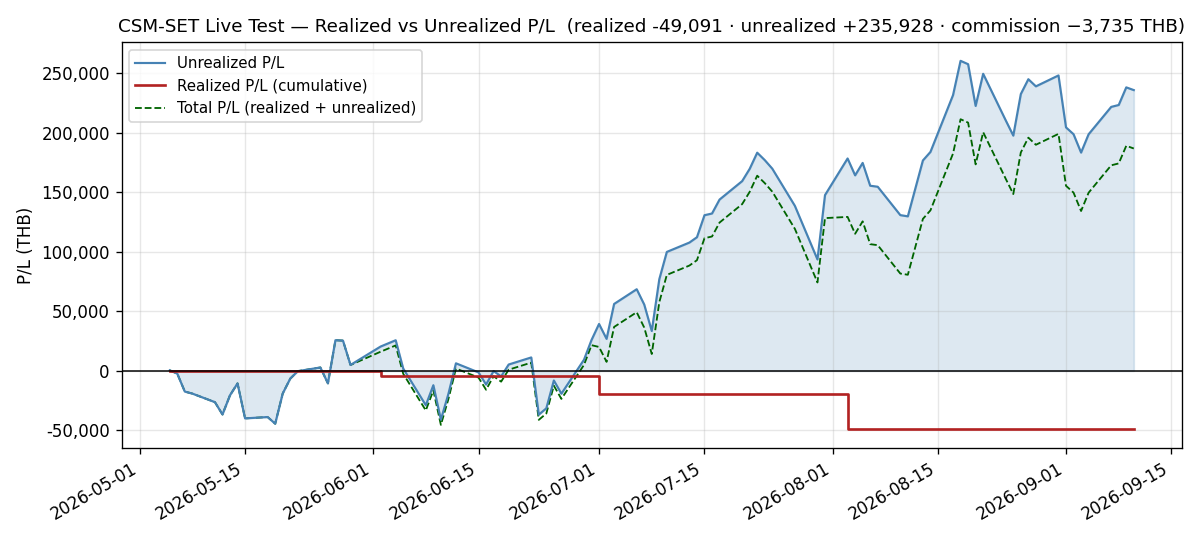
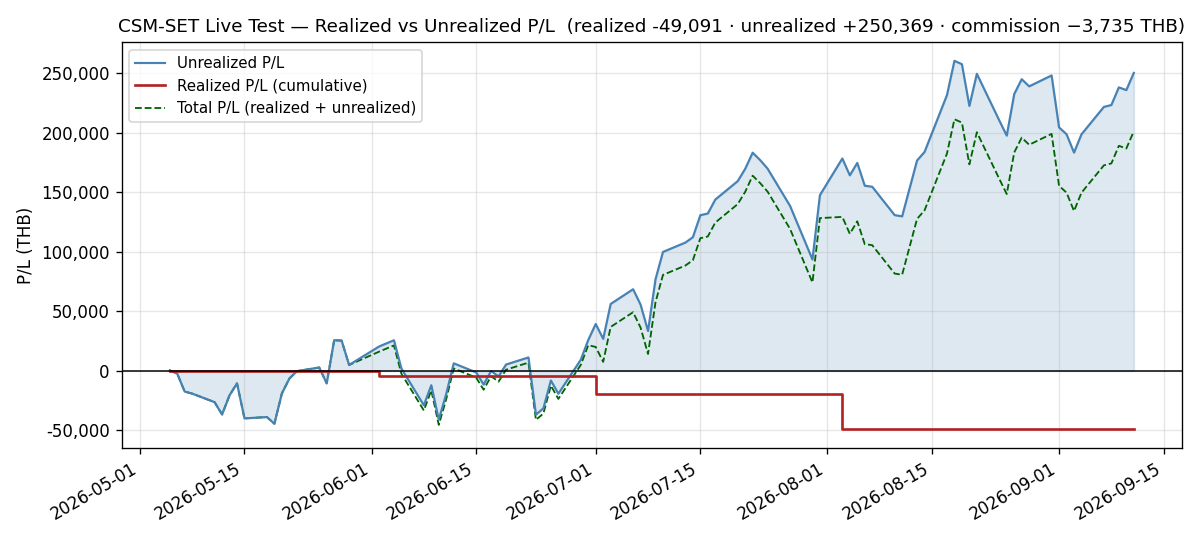
docs(live-test): add daily log for 2026-09-11 -- the track record restarts forward-only, and an audit finding is withdrawn
NAV closes at 1,319,667.70 THB, up +14,441.00 (+1.1064%) with no trades, on
breadth of 5 up / 4 down / 1 flat, against a SET that fell -0.6532%. KCE +12.82%
is the largest single-name session move of the live test and contributed
+19,500.00 on its own -- more than the whole session -- while IRPC gave back
-4.61% for a second consecutive heavy decline.

OPERATOR DECISION, 2026-09-11: THE TRACK RECORD RESTARTS FORWARD-ONLY.
Everything recorded to date -- this log, the eighty-nine before it, eighteen
weekly reports and four monthly reviews -- is pre-registration history: seen,
not scored. Scoring criteria are pending an operator pre-registration and this
log proposes, implies and anticipates none. The figures are unchanged in how
they are computed and changed only in what they may be used for. Every
performance figure is labelled accordingly and names the series it came from,
because equity_curve and daily_performance disagreed on 27 of 89 overlapping
dates before agreeing on the last three.

CORRECTION, AND IT IS THIS LOG'S OWN: an audit earlier today reported the
September rebalance as "overdue since 2026-09-01, not executed". That is WRONG
and is withdrawn. The rebalance was executed at the 2026-09-01 ATO as a
0-out / 0-in rotation; monthly/2026-08.md is the plan (committed 768af63,
2026-08-31) and daily/2026-09-01.md records the execution. The audit inferred a
missed rotation from an unchanged entry_date, an absent monthly/2026-09.md and
[…]

diff --git a/docs/live-test/daily/2026-09-11.md b/docs/live-test/daily/2026-09-11.md
@@ -1,0 +1,162 @@
+# Daily Log — 2026-09-11 (Friday)
+
+**As of:** 2026-09-11, Asia/Bangkok
+**Phase:** C — Extended Observation
+**Day:** 90 / 73 trading days remaining in 2026
+**Status:** 🔴 **THE TRACK RECORD RESTARTS FORWARD-ONLY — operator decision, 2026-09-11.** Everything in this document and in the eighty-nine that precede it is **pre-registration history: seen, not scored.** Scoring criteria are **pending an operator pre-registration** and none is proposed, implied or anticipated anywhere below. **NAV closes at 1,319,667.70 THB, up +14,441.00 (+1.1064%)** with no trades, on breadth of **5 up, 4 down, 1 flat**, against a SET that fell **−0.6532%** — a margin of **+1.7596pp**, the widest of the holding period. **KCE +12.82% is the largest single-name session move of the live test**, contributing **+19,500.00** on its own. 🟢 **The prior log's one-tick call on SMT fired exactly as written:** it said 5.85 would put SMT at +0.69% and make the split 8/2. SMT closed **5.85**, at **+0.69%**, and the split is **8/2**. 🔴 **AUTO sits 0.0194pp above the 5% sector FLOOR** — 256.61 THB, the narrowest sector reading at either end in ninety sessions, and the drift question is now live at the *bottom* of the envelope while the cap has gone quiet. ⚠ **And a correction this log owes: an audit earlier today reported the September rebalance as overdue and unexecuted. That was wrong** — it was executed on 2026-09-01 as a 0-out / 0-in rotation, and `monthly/2026-08.md` is the record (Risk Note 4).
+
+---
+
+## Execution Summary
+
+**No trades today.** The September rebalance was executed at the **2026-09-01 ATO** as a **0-out / 0-in** rotation — the live test's first no-trade rotation — so `configs/live_portfolio.yaml` is unchanged and remains valid. Realized P/L for the session is **0.00 THB** and no commission was paid. The next rebalance evaluation is **2026-09-30**.
+
+---
+
+## Portfolio Snapshot
+
+> 🔴 **Every figure in this section is PRE-REGISTRATION HISTORY — NOT SCORED.** It is produced from the **reconstructed series** (`csm.adapters.hooks._reconstruct_live_equity`, which reprices `configs/live_portfolio.yaml` against `data/processed/prices_latest.parquet`) and reconciled against **`db_gateway.daily_performance`**. Where a number below is quoted from a stored series, the series is named.
+
+`Avg Cost` is the commission-inclusive per-share basis carried from `configs/live_portfolio.yaml` (4-decimal precision); `Cost Basis = shares × Avg Cost`, and `U.PL % = MV / Cost Basis − 1`. Per-symbol values reproduce the broker statement exactly.
+
+| # | Symbol | Shares | Avg Cost | Last Price | Market Value (THB) | Cost Basis (THB) | U.PL % |
+|---|--------|-------:|---------:|-----------:|--------------------:|-----------------:|-------:|
+| 1 | KCE | 2,600 | 39.0655 | 66.00 | 171,600.00 | 101,570.30 | +68.95% |
+| 2 | GUNKUL | 30,800 | 2.9246 | 5.10 | 157,080.00 | 90,077.68 | +74.38% |
+| 3 | INSET | 42,000 | 3.0848 | 4.40 | 184,800.00 | 129,561.60 | +42.63% |
+| 4 | HANA | 3,000 | 35.8070 | 50.00 | 150,000.00 | 107,421.00 | +39.64% |
+| 5 | IRPC | 56,600 | 2.3037 | 2.90 | 164,140.00 | 130,389.42 | +25.88% |
+| 6 | EASTW | 24,000 | 4.2672 | 5.05 | 121,200.00 | 102,412.80 | +18.34% |
+| 7 | EPG | 17,300 | 5.9099 | 6.00 | 103,800.00 | 102,241.27 | +1.52% |
+| 8 | SMT | 20,400 | 5.8097 | 5.85 | 119,340.00 | 118,517.88 | +0.69% |
+| 9 | FORTH | 5,300 | 16.1270 | 14.80 | 78,440.00 | 85,473.10 | −8.23% |
+| 10 | MGC | 9,200 | 10.7180 | 7.20 | 66,240.00 | 98,605.60 | −32.82% |
+
+### Portfolio summary
+
+| Metric | Value |
+|--------|-------|
+| Total Cost Basis | 1,066,270.65 THB |
+| Total Market Value | 1,316,640.00 THB |
+| Unrealized P/L | +250,369.35 THB (+23.48%) |
+| Realized P/L (today) | **0.00 THB** |
+| Realized P/L (cumulative, since inception) | **−49,091.38 THB** |
+| Commission paid (cumulative) | **−3,735.16 THB** |
+
+### Account summary
+
+| Metric | Value |
+|--------|-------|
+| Remaining Cash | 3,027.70 THB |
+| Total NAV | 1,319,667.70 THB |
+| Total Return on NAV | +17.83% |
+
+> **Cost-basis note:** Total Cost Basis is unchanged at **1,066,270.65 THB** and the reconciliation delta against Σ per-symbol (`shares × avg_cost`, 4-dp) is **0.00 THB** for a twenty-eighth consecutive session.
+>
+> 🟢 **Above/below cost: 8 up / 2 down** — and the change was **predicted in the prior log to the tick.** That log wrote: *"One upward tick (5.85) puts it at +0.69% and makes the split 8/2."* SMT closed at **5.85**, its U.PL is **+0.69%**, and the split is **8/2**. 🔑 **It is worth being precise about what this does and does not show.** The same log issued the same kind of call on EPG on 2026-09-08 and **that one did not fire**. Two calls, one hit — this is a distance being stated so it can be checked either way, not a forecasting record, and it must not be read as one.
+>
+> 🟢 **Dispersion NARROWED for a second consecutive session, 108.29pp → 107.20pp** (GUNKUL +74.38% to MGC −32.82%), a **−1.09pp** step. **But the mechanism differs from yesterday's and the difference matters.** Yesterday it narrowed because the laggard MGC rose while the book fell. Today MGC **fell −3.36%** and the spread narrowed anyway, because the leader GUNKUL fell further in percentage-of-cost terms. **A spread that closes from the top is not the same event as one that closes from the bottom**, and only the second is laggard recovery.
+>
+> **Total P/L check:** realized + unrealized = −49,091.38 + 250,369.35 = **+201,277.97 THB**, up from +186,836.97 by exactly the +14,441.00 session move. It stands **10,158.00 below** the live-test maximum of **+211,435.97 set 2026-08-18** — a gap that is exactly the NAV drawdown from peak, as it must be while realized P/L is constant.
+
+---
+
+## Day-over-Day Change (vs Thursday September 10)
+
+| Symbol | Sep 10 Close | Sep 11 Close | Change | Change % | MV Contribution (THB) |
+|--------|-------------:|-------------:|-------:|---------:|----------------------:|
+| KCE | 58.50 | 66.00 | +7.50 | +12.82% | +19,500.00 |
+| HANA | 48.00 | 50.00 | +2.00 | +4.17% | +6,000.00 |
+| EASTW | 5.00 | 5.05 | +0.05 | +1.00% | +1,200.00 |
+| SMT | 5.80 | 5.85 | +0.05 | +0.86% | +1,020.00 |
+| EPG | 5.95 | 6.00 | +0.05 | +0.84% | +865.00 |
+| FORTH | 14.80 | 14.80 | 0.00 | 0.00% | 0.00 |
+| INSET | 4.42 | 4.40 | -0.02 | -0.45% | -840.00 |
+| MGC | 7.45 | 7.20 | -0.25 | -3.36% | -2,300.00 |
+| GUNKUL | 5.20 | 5.10 | -0.10 | -1.92% | -3,080.00 |
+| IRPC | 3.04 | 2.90 | -0.14 | -4.61% | -7,924.00 |
+| **Total** | | | | **+1.11%** | **+14,441.00** |
+
+**Breadth: 5 up, 4 down, 1 flat.**
+
+> The `Change %` on the Total row is the **market-value** change (+14,441.00 / 1,302,199.00 = +1.1090%), not the NAV change (+14,441.00 / 1,305,226.70 = +1.1064%). The two differ only because cash sits in the NAV denominator and not in the market-value one; with cash constant at 3,027.70 the absolute change is identical and only the denominator moves.
+
+**The session was carried by one name and opposed by another, and the two nearly cancelled in count while not cancelling at all in size.** KCE's **+12.82%** is the largest single-name move of the live test and alone contributed **+19,500.00** — more than the whole session's **+14,441.00**. Against it, IRPC gave back **−4.61%** and **−7,924.00**, its second consecutive decline of that order after yesterday's −5.00%. **The book rose while five of its ten names did not, and it rose against a falling index**: the SET fell **−0.6532%** and the book gained **+1.1064%**, a **+1.7596pp** margin that is the widest of the holding period. 🔑 **A single-name margin is not a signal about the strategy.** One name moving 12.82% on a ten-name book moves NAV by roughly 1.5% whatever the ranking rule was; the ranking's contribution to that outcome is not separable from a session's tape, and nothing in this log attempts to separate it.
+
+---
+
+## Market Context
+
+| Indicator | Value | Source |
+|-----------|-------|--------|
+| SET Index | 1,604.52 | tvkit (TradingView) |
+| SET Open / High / Low | 1,608.17 / 1,610.43 / 1,600.19 | tvkit |
+| SET 200-day SMA | 1,463.1345 | tvkit (TradingView) |
+| Regime Estimate | BULL | SET +9.66% above SMA200 |
+
+> ⚠ **This is context, NOT a benchmark comparison, and it must not be read as one.** `SET:SET` is a **price index**; the strategy series above is priced on **dividend-adjusted** bars (since `e04a292`, 2026-08-09). The two are not on the same basis, the difference is one-sided in the strategy's favour, and it is not small — measured 2026-09-11 over 2024-03-19 → 2026-09-10, the dividend adjustment is worth **+12.09 percentage points** on this universe, roughly **+4.8%/yr**. The engine's own benchmark loader is also given **no date bounds**, so it returns **600 index points from 2024-03-19** against a strategy series of **29 sessions from the 2026-08-03 `entry_date`**. **No alpha, excess return or outperformance figure is computed anywhere in this log**, and the `+1.7596pp` margin quoted above is a same-session arithmetic difference, not a performance claim.
+
+---
+
+## Regime State
+
+- **Detected regime:** BULL — SET (1,604.52) is above SMA200 (1,463.1345) by +9.6632%
+- **SMA200 position:** 1,463.1345 — SET closing at 1,604.52
+- **3-month return:** +1.29% (window-sensitive — see Notes)
+- **No regime-driven action.** The regime filter is evaluated at the month-end rebalance, not intra-month. The next evaluation is **2026-09-30**.
+
+**The five-session SET path reads 1,618.82 → 1,621.89 → 1,617.89 → 1,615.07 → 1,604.52**, and the index has now fallen on **three consecutive sessions** for a cumulative **−1.0710%** from Tuesday's high. Today's **−10.55 point** decline is the largest of the four and the range (**1,600.19–1,610.43**, 10.24 points) the widest, so the fall is broadening rather than drifting. **Cushion compressed 10.5050% → 9.6632%, a −0.8418pp step and the first reading below 10% since the cushion series began being tracked weekly.** SMA200 itself rose **1,461.5359 → 1,463.1345**, so the compression is the index falling *and* the average rising — both terms moving the same way, which is the faster of the two ways this converges. **At 141.39 points of headroom a BULL→BEAR crossing is not a September concern**, and nothing in the system acts on cushion compression short of that crossing.
+
+---
+
+## Sector Concentration
+
+Groupings are the SET-official classification re-based at the 2026-08-03 rebalance and are unchanged today; percentages are directly comparable to the prior session for every sleeve.
+
+| Sector | Market Value (THB) | % of NAV | Limit | Status |
+|--------|--------------------:|---------:|-------|--------|
+| Energy & Utilities (ENERG) | 442,420 | 33.5251% | 35% | OK — 19,463.70 THB of headroom |
+| Electronic Components (ETRON) | 440,940 | 33.4130% | 35% | OK — 20,943.70 THB of headroom |
+| ICT | 263,240 | 19.9474% | 35% | OK |
+| Construction Materials (CONMAT) | 103,800 | 7.8656% | 35% | OK |
+| Automotive (AUTO) | 66,240 | 5.0194% | 5% floor | 🔴 **256.61 THB above the FLOOR** |
+
+🔴 **The binding constraint has moved from the top of the envelope to the bottom, and it is tighter there than the cap ever was.** AUTO — a one-name sleeve, MGC — closed at **5.0194% of NAV**, **256.61 THB** above the 5% floor of **65,983.39**. **MGC would put the sleeve under the floor below 7.1721 per share; it closed at 7.20, which is 0.39% away.** For comparison, the tightest the 35% cap ever got was ENERG's **0.65pp** on 2026-08-05 and its two actual breaches; **0.0194pp is thirty-three times tighter than that**, and it is a *floor*, where the corrective action is to **buy** rather than trim. 🔑 **The 2026-08-31 monthly review predicted this in terms and named the reason it would not be caught:** it recorded AUTO at 5.3418%, *"0.34 pp above the 5% floor after closing 64% of that distance in ten sessions"*, and observed that **"a measure that moves 0.8 pp in a session cannot be governed by a check that runs once a month."** Eight sessions later the remaining 0.34pp is 0.0194pp. **Nothing acted, because the 5–15% position bound and the sector envelope are applied at rebalance construction only** — there is no code path that trims or tops up on drift.
+
+🟢 **The 35% cap is the quietest it has been in three weeks.** ENERG fell **34.6472% → 33.5251%** on IRPC's second consecutive heavy session, taking headroom from 4,605.35 to **19,463.70**. **But the ENERG–ETRON gap collapsed from 2.8964pp to 0.1121pp** — KCE's +12.82% lifted ETRON to **33.4130%**, within **1,480.00 THB** of ENERG. ⚠ **Two sleeves within 0.12pp of each other and both within 1.6pp of the cap means the next cap event is no longer predictable from watching ENERG alone**, which is what every prior log has done.
+
+---
+
+## Risk Notes
+
+1. 🔴 **THE TRACK RECORD RESTARTS FORWARD-ONLY (operator decision, 2026-09-11).** Everything recorded to date — this log, the eighty-nine daily logs before it, the eighteen weekly reports, the four monthly reviews — is **pre-registration history: seen, not scored.** **Scoring criteria are pending an operator pre-registration.** This log proposes none, implies none, and anticipates none; the figures it reports are unchanged in how they are *computed* and changed only in what they may be *used for*. 🔑 **The reason this is the right response to the last two days' findings is that the alternative is worse:** criteria chosen after ninety sessions of visible results are not a test, and the audit established that the inputs behind those results moved three times in one week of August.
+2. 🔴 **AUTO is 256.61 THB above the 5% sector floor — 0.0194pp, the narrowest sector reading at either end in ninety sessions.** MGC breaches below **7.1721/share** against a **7.20** close. **No action is recommended and none has been sized.** The floor, like the 35% cap and the 5–15% position bound, binds at rebalance **construction** only; there is no executable path that acts on drift. **This is the third distinct instance of the same unresolved question** — INSET above the position ceiling for four months, ENERG through the sector cap twice, and now AUTO at the floor — and it is the first at the bottom of an envelope, where the remedy is a purchase. [[TK-0279]]
+3. ⚠ **The ENERG–ETRON gap is 0.1121pp and both sleeves are within 1.6pp of the 35% cap.** Every prior log has monitored cap risk by watching ENERG. That heuristic expired today. **ETRON at 33.4130% would breach on a further +18.78% in KCE alone** (66.00 → 78.3927, solved with NAV moving too), and KCE moved +12.82% this session.
+4. 🔴 **CORRECTION — an audit earlier today reported the September rebalance as "overdue since 2026-09-01, not executed". That finding was WRONG and is withdrawn.** The rebalance **was** executed, at the 2026-09-01 ATO, as a **0-out / 0-in** rotation; the plan is `docs/live-test/monthly/2026-08.md`, written 2026-08-31 and committed `768af63`, and the execution is recorded in `daily/2026-09-01.md`. 🔑 **The audit reached the wrong answer by exactly the route the 2026-09-01 log had already warned about.** That log states, in terms: *"A rebalance that changes nothing and a rebalance that was missed are indistinguishable from the file alone — the distinguishing evidence is `monthly/2026-08.md`, and it exists."* The audit inferred a missed rotation from an unchanged `entry_date`, an absent `monthly/2026-09.md` and an absent 2026-08-31 universe snapshot — **the precise false positive that sentence predicts**, in a document one directory from the file that refutes it. **Recorded forward; `2026-09-01.md` is not edited.** ⚠ **A second claim in the same audit is also corrected: it said no rebalance had yet run on the dividend-adjusted basis.** The 2026-09-01 rotation was evaluated on **2026-08-31**, twenty-two days after the basis fix (`e04a292`, 2026-08-09), so it **was** the first — it simply produced no trades.
+5. 🟢 **`equity_curve` and `daily_performance` agree today, to the satang**, both reading **1,319,667.70**. They have now agreed on **three consecutive sessions** (09-09, 09-10, 09-11) after disagreeing on **27 of the 89 overlapping dates** before that — one isolated 2026-05-05 and a contiguous block 2026-08-03 → 2026-09-08. 🔑 **The block's closure is not a fix and must not be read as one.** The mechanism is that `hooks.py` rewrites the whole `[entry_date, today]` window on every refresh, so every vendor back-adjustment silently restates banked history behind the append-only gateway rows; rows written *after* the most recent restatement agree until the next one. **The 2026-09-08 gap was −2,263.999434, which is the 2,264.00 IRPC ex-dividend effect characterised in `daily/2026-09-09.md`.** The next restatement will re-open the divergence. [[TK-0297]]
+6. 🟢 **The uncredited dividend total HELD at 8,927.00 THB** — KCE 1,560.00, INSET 2,100.00, MGC 2,208.00, FORTH 795.00, IRPC 2,264.00. **No held name went ex-dividend today**: all ten prior closes in today's panel match yesterday's log exactly, so zero of 211 symbols carry a restated bar, for a second consecutive session. It stands at **4.44%** of the +201,277.97 total P/L, **down** from 4.78%, and the whole move is denominator — the numerator is frozen. **NAV is understated by 8,927.00 THB against a broker statement**, which is **0.68% of NAV**. **There is still no dividend-accrual or dividend-receivable path anywhere in the live-test book.** Recorded, deliberately not corrected. Carries to **2026-09-30**.
+7. 🟢 **The market-data engine's read API was repaired today, and csm-set was not affected by either the fault or the fix.** `quant-marketdata-engine` had been returning **503 on every `/ohlcv` and `/ohlcv/adjusted` request since the 2026-09-10 reboot** — 33 hours — because it started 0.324 s before Postgres, its connection pool never opened, and nothing retried; Docker reported the container `healthy` throughout because the healthcheck asserted only an HTTP status. Fixed, merged and deployed today (`5d3bf69`); `/health` now reads `db: true` and both endpoints serve rows. 🔑 **csm-set consumed nothing from it in either state.** The container runs `CSM_OHLCV_SOURCE=parquet` with no engine URL set at all, so its price panel came from tvkit as it has every session — **the engine outage could not have touched a number in this log, and the repair does not improve one.** The decision about whether csm-set should read the engine at all is unchanged and still open. [[TK-0296]]
+8. 🟢 **Circuit-breaker buffer 19.37% of NAV, +0.89pp on the session.** The 5% breaker trips at **1,064,000 THB** (1,120,000 × 0.95). NAV sits **+255,667.70 THB above it**, up from +241,226.70. **Today's NAV is 0.76% off peak**: 1,319,667.70 against the 2026-08-18 peak of **1,329,825.70** is **−10,158.00, or −0.7639%** — the closest the book has come to its high since 2026-08-21. The separate `circuit_breaker.trigger_threshold` is **−10% on a rolling 60-day window**; −0.76% is comfortably clear, and the breaker has never come within 2.89pp of tripping in ninety sessions.
+9. **INSET is inside the 5–15% position band at 14.0035%**, 13,150.16 THB under the 197,950.16 ceiling, having been outside it on nineteen of twenty sessions through the August rebalance. **It moved back inside on price, not on action** — no trim was ever sized or placed. The band's status is therefore unchanged as a *question* even though the instance has gone quiet, which is why Risk Note 2 matters more than this one today.
+10. **INFRA (carried) — the container publishes `:8100` on all interfaces while private-mode auth is disabled.** `CSM_API_KEY` is absent from the container environment entirely and `CSM_PUBLIC_MODE=false`. **Risk tier: low-moderate and LAN-scoped.** Two low-risk options, operator's call: bind to `127.0.0.1:8100:8000`, or set `CSM_API_KEY`. **A recreate is required for the first and has not occurred** — `Created` is unchanged since 2026-09-01. **Twenty-second consecutive log.**
+11. ⚠ **DOC — the `csm-set-daily-log` skill's `daily_return` guidance remains stale.** Its Step 3 still calls the field *"an open defect, not yet fixed in code"*; **it was fixed 2026-09-02**. Today `daily_return` reads **+1.1064%** and agrees with this log's headline exactly, because no bar was restated. The instruction the skill gives — compute the change independently — remains correct and is followed here. **Recorded, not corrected**: the skill belongs to a task that owns it. **Fourth log to carry this.**
+12. **Four open decisions carry to the 2026-09-30 evaluation**, unchanged in number: the drift question at both ends of the position and sector bands (Risk Notes 2, 3, 9), fix-notional-not-shares on the entrants, restate-vs-cutover for price history (Risk Note 5), and dividend accrual (Risk Note 6). 🔑 **The operator's forward-only decision (Risk Note 1) does not resolve any of them and was not intended to** — it changes what the record may be used for, not what the book does. **All four still bind on the September 30 rebalance.**
+
+---
+
+## Notes
+
+- **Scheduled refresh completed via APScheduler with zero failures.** `"Scheduled daily_refresh completed"` at **2026-09-11T11:04:01Z** (18:04 BKK) — the 18:00 cron firing, not a manual `POST /api/v1/scheduler/run/daily_refresh`. Receipt: `symbols_fetched=211, failures=0, duration_seconds=239.31, held_symbols_fetched=10, held_symbols_failed=0, retry_attempts_used=1, index_fetched=true`, corroborated by `results/.tmp/last_refresh.json`. ⚠ **`retry_attempts_used` was 1, against 0 on each of the prior two sessions**, and the run took **239.31s against 122.66s yesterday** — a 95% increase. One retry is well inside tolerance and no symbol failed, but the pair is recorded so a trend has a baseline to be measured against.
+- **The price panel and the prior log agree on all ten names.** Every held symbol's 2026-09-10 close in today's panel matches the figure `daily/2026-09-10.md` published. **No held name was restated**, so the uncredited-dividend ledger is unchanged (Risk Note 6).
+- **The panel's row count fell 941 → 940.** The oldest date rolled off the 600-bar-per-symbol window; column count is unchanged at **211** (210 symbols + `SET:SET`). ⚠ **`universe_latest` carries 210 rows and the panel 211 columns** — the difference is the index, which is a price column and not a universe member. The two counts are not interchangeable and a check that compares them directly will report a phantom defect.
+- **Row-integrity checks pass.** `db_csm_set.equity_curve` holds exactly one row per trading day at `00:00:00+00`; today's row is present and equals `daily_performance.total_value`.
+- **`configs/live_portfolio.yaml` is unchanged** since the 2026-08-03 rewrite — twenty-eight sessions — and remained valid across the 2026-09-01 rebalance because that rotation traded nothing.
+- **The P/L identity holds and its residual is unchanged.** `realized_cum + unrealized − (NAV − starting_nav)` = −49,091.38 + 250,369.35 − 199,667.70 = **1,610.27 THB**, the same constant as every session since the rebasing.
+- **Every figure was verified rather than asserted.** Σ position market value equals Total Market Value exactly (1,316,640.00); **Total NAV (1,319,667.70) equals `db_gateway.daily_performance.total_value` to the satang**; Σ (shares × price change) equals the market-value change (+14,441.00) exactly; the sector table sums to Total Market Value exactly; Σ per-symbol cost basis matches Total Cost Basis with a **0.00** delta; the position count is 10. All money arithmetic used `Decimal` with explicit half-up rounding (AUTO **5.0194%** at **256.61 THB** above a 65,983.39 floor; the ENERG−ETRON gap **0.1121pp**; MGC's floor-breach price **7.1721**).
+- **Realized P/L and commission ledger — both unchanged, no trades today.** Realized cumulative **−49,091.38 THB** (2026-06-02 −4,351.87 · 2026-07-01 −14,964.06 · 2026-08-03 −29,775.45). Commission cumulative **−3,735.16 THB**. **September has added nothing to either line and by construction will not**, its rotation having traded nothing.
+- **Capital events to date, unchanged.** `starting_nav` 1,120,000 after 1,000,000 → 1,100,000 (2026-06-04, +100,000) → 1,120,000 (2026-08-03, +20,000). **Both injections are inside the pre-registration window** and neither is performance.
+- **Fresh-high/low claims are scoped to their window.** KCE's +12.82% is the largest single-name session move **of this live test**, not of KCE's history. The +1.7596pp margin over the SET is the widest **of the 2026-08-03 holding period**, not of the live test.
+- **3-month return figure is window-sensitive.** +1.29% is measured over the trailing 66 bars from today's close and moves materially with the start bar.
+- **Follow-ups for the next session (Monday 2026-09-14 18:00 +07).** (a) AUTO against the 5% floor — MGC below 7.1721 breaches it; (b) the ENERG−ETRON gap, now 0.1121pp, and whether cap monitoring needs to watch both; (c) whether `equity_curve` and `daily_performance` stay in agreement for a fourth session, or a restatement re-opens the block; (d) whether the refresh's `retry_attempts_used` and duration return to their prior levels; (e) the engine's first scheduled ingest after today's fix, 2026-09-14 12:15 UTC, and whether it adds any duplicate symbol-day.
+- **Calendar.** 2026-09-11 was a trading session; the banked SET holiday calendar (`results/.tmp/set_holidays.json`, `captured_at 2026-09-11T12:32:39Z`) carries no September closure, and the next 2026 closure is **2026-10-13**. SET trading hours were fetched from `set.or.th` at **2026-09-11T14:03:15Z** and are not stated from memory anywhere in this log.
+- Data fetched via tvkit (TradingView, free tier) — all 10 held-symbol prices from the 18:00 BKK scheduled-cron refresh; SET Index context anchored explicitly to the 2026-09-11 bar. ⚠ **The vendor back-adjusts a symbol's entire history on an ex-dividend date**, so any prior-session price quoted here is the vendor's *current* view of that session and not necessarily what was published at the time.

diff --git a/docs/live-test/graphs/README.md b/docs/live-test/graphs/README.md
@@ -260,6 +260,25 @@ do not re-derive `k` from the new NAV.
 
 ## History
 
+**`pnl.csv` extended through 2026-09-11** on 2026-09-11, appending the **2026-09-11** row — one row,
+continuing the same-session practice for a **twenty-first** consecutive session. `realized_cum` and
+`commission_cum` are unchanged (no trade since the 2026-08-03 rotation, and the 2026-09-01 rebalance
+was a 0-out / 0-in rotation that traded nothing), so the whole movement is the unrealized leg
+(+235,928.35 → **+250,369.35**, a **+14,441.00** session — the largest single-session gain since
+2026-08-17). The reconciliation residual holds at **1,610.27**. **`pnl_realized_unrealized.png` was
+regenerated in the same session**, so the two artifacts end together at **89 points**; the four PNGs
+were checksummed before and after and the three NAV charts are byte-identical (`drawdown`
+eea580c3…, `equity_curve` 25b0baf9…, `monthly_returns` aebd96bd…), with only the P/L chart's hash
+moving (c116837f… → **d5c45add…**) — the twenty-first consecutive verification of the one-PNG rule.
+
+> 🔴 **A note this series now needs, because the figures above are unchanged in how they are computed
+> and changed in what they may be used for.** By operator decision of **2026-09-11** the live test's
+> track record **restarts forward-only**: every point in `pnl.csv`, `nav_actual.csv` and `nav_twr.csv`
+> to date is **pre-registration history — seen, not scored**, and scoring criteria are **pending an
+> operator pre-registration**. Nothing in this file proposes or implies any. The series continue to be
+> extended and reconciled exactly as before; a reader must simply not treat their contents as a
+> graded result.
+
 **`pnl.csv` extended through 2026-09-10** on 2026-09-10, appending the **2026-09-10** row — one row,
 continuing the same-session practice for a **twentieth** consecutive session. `realized_cum` and
 `commission_cum` are unchanged (no trade since the 2026-08-03 rotation), so the whole movement is the
